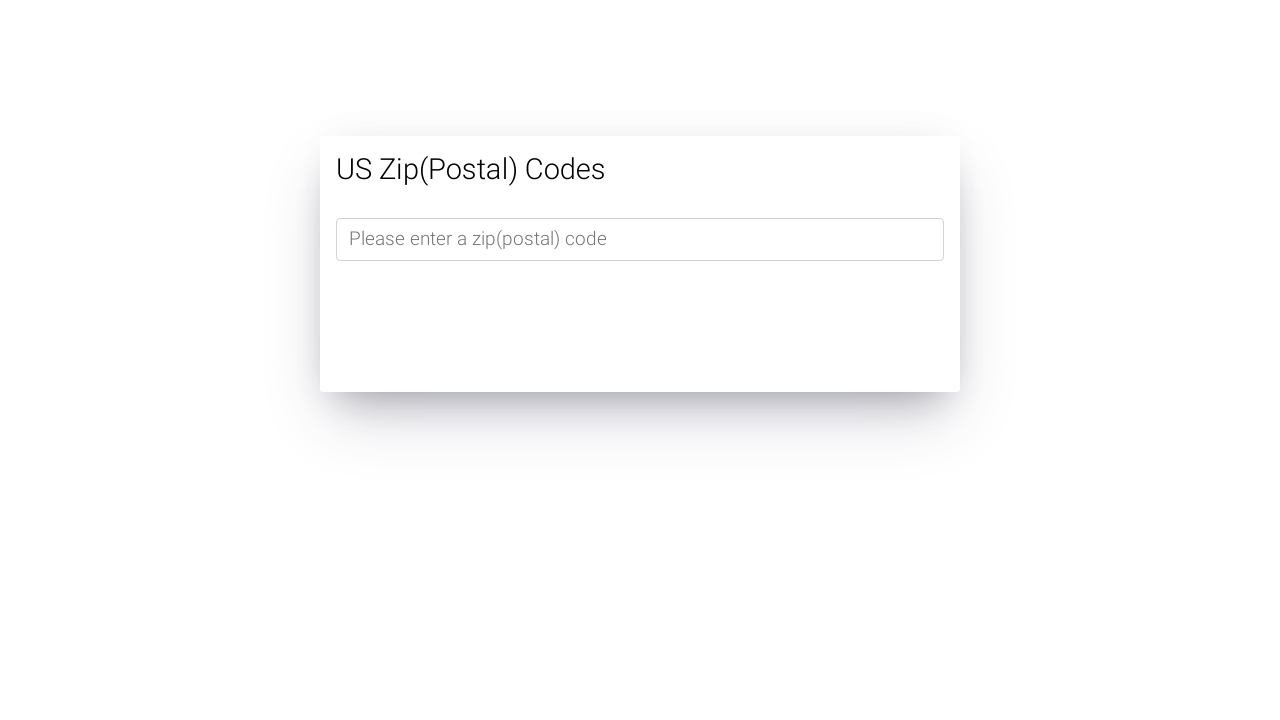
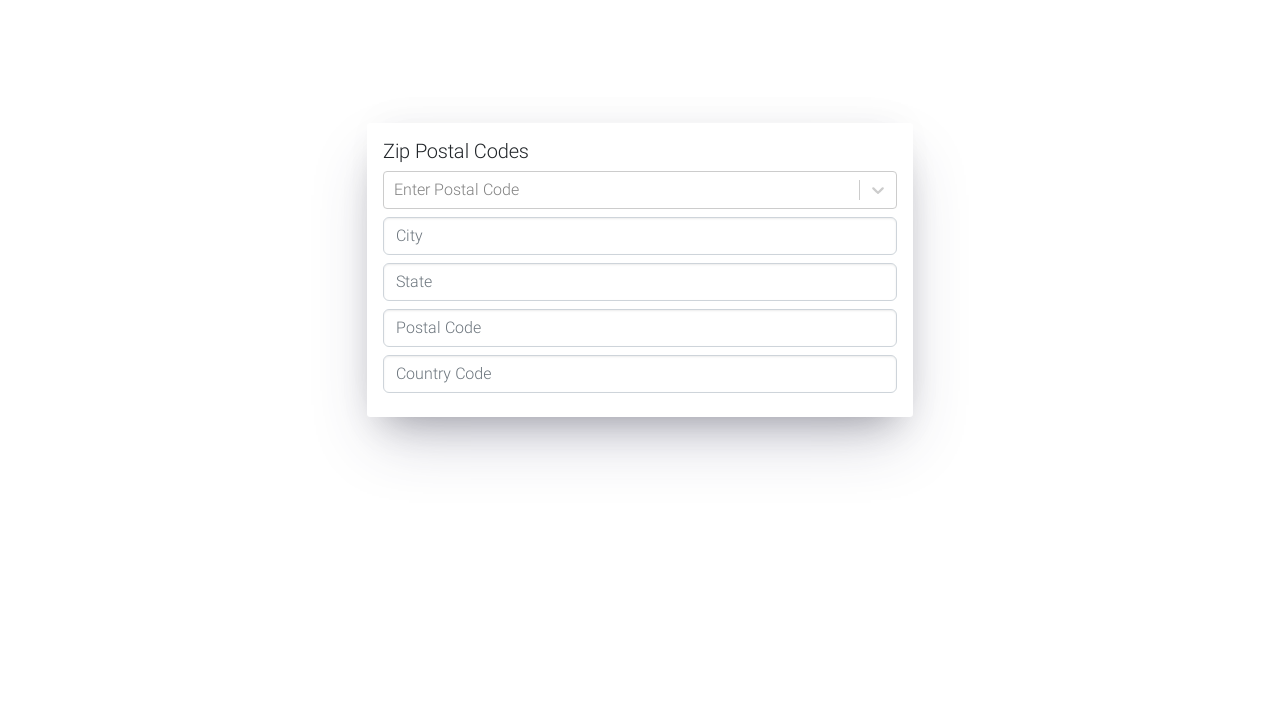
Update Readme and screenhot.

Changed region(s): [[0.25, 0.1833, 0.75, 0.6111], [0.75, 0.3056, 0.7812, 0.4889], [0.2188, 0.3056, 0.25, 0.4889]]

diff --git a/README.md b/README.md
@@ -4,16 +4,17 @@
 ![React Zip](./screenshot.png)
 
 ## Introduction
-React Zip is a demo app displaying US zip(postal) codes.
+React Zip is a demo app displaying zip postal codes.
 
 ### Feature
-- Ability to explore US zip(postal) codes.
+- Ability to explore zip postal codes.
 - Built with Webpack.
 
 ## Usage
 run `npm run dev`, browse `localhost:8080`
 
 ## Reference
+- [Bootstrap](https://getbootstrap.com/)
 - [Webpack](https://webpack.js.org/)
 - [Heroku](https://devcenter.heroku.com/categories/deployment)
 - [ESLint](https://eslint.org/)
